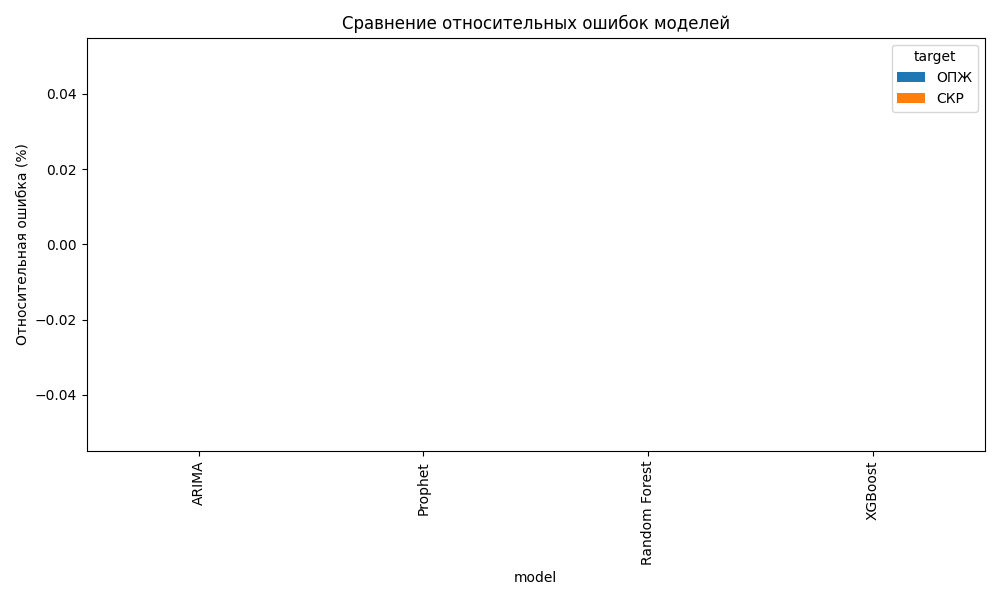
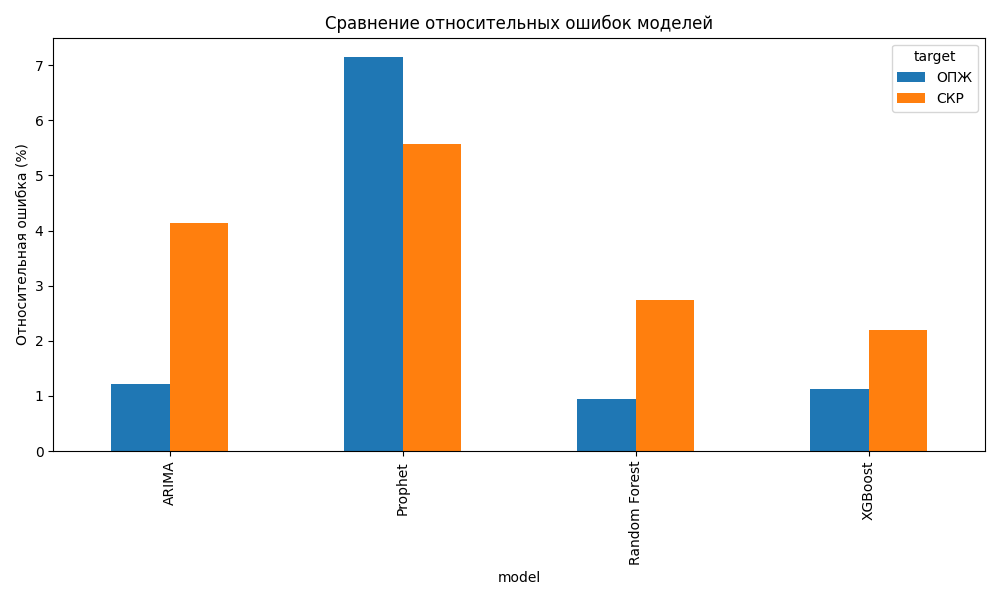
Auto update metrics [ci skip]

diff --git a/notebooks/Readme.md b/notebooks/Readme.md
@@ -1,42 +1,178 @@
 # Отчёт по моделям
 ## Модель: ARIMA — СКР
 ```
-
+====================================================================================================
+File: ./notebooks/ARIMA/predictions_afr.xlsx
+Names standardize
+RMSE: 0.0593
+MAE: 0.0445
+R²: 0.9544
+Средний СКР: 1.4329
+Среднее по предсказаниям: 1.4052
+Относительная ошибка: 4.14%
+====================================================================================================
+Отклонение таргета относительно среднего по всем годам: 1.62
+RMSE: 0.3348
+MAE: 0.2725
+R²: -0.4538
+Средний СКР: 1.4329
+Относительная ошибка: 23.37%
+====================================================================================================
+JSON: {"RMSE": 0.05926621495670294, "MAE": 0.04445411764705883, "R2": 0.9544499972734612, "mean": 1.4329270588235294, "relative_error": 4.136024551407526}
 ```
 
 ## Модель: ARIMA — ОПЖ
 ```
-
+====================================================================================================
+File: ./notebooks/ARIMA/predictions_ele.xlsx
+Names standardize
+RMSE: 0.8804
+MAE: 0.7063
+R²: 0.8856
+Средний ОПЖ: 72.4341
+Среднее по предсказаниям: 72.7107
+Относительная ошибка: 1.22%
+====================================================================================================
+Отклонение таргета относительно среднего по всем годам: 71.29
+RMSE: 2.8435
+MAE: 2.1326
+R²: -0.1932
+Средний ОПЖ: 72.4341
+Относительная ошибка: 3.93%
+====================================================================================================
+JSON: {"RMSE": 0.880369612552525, "MAE": 0.7062552941176471, "R2": 0.8856220471199727, "mean": 72.43411764705881, "relative_error": 1.2154073814251432}
 ```
 
 ## Модель: Prophet — СКР
 ```
-
+====================================================================================================
+File: ./notebooks/Prophet/predictions_afr.xlsx
+Names standardize
+RMSE: 0.0804
+MAE: 0.0626
+R²: 0.9166
+Средний СКР: 1.4430
+Среднее по предсказаниям: 1.3965
+Относительная ошибка: 5.57%
+====================================================================================================
+Отклонение таргета относительно среднего по всем годам: 1.62
+RMSE: 0.3299
+MAE: 0.2663
+R²: -0.4045
+Средний СКР: 1.4430
+Относительная ошибка: 22.86%
+====================================================================================================
+JSON: {"RMSE": 0.08039634474917264, "MAE": 0.06261784104002265, "R2": 0.9165793307910134, "mean": 1.4429705882352941, "relative_error": 5.57158582473221}
 ```
 
 ## Модель: Prophet — ОПЖ
 ```
-
+====================================================================================================
+File: ./notebooks/Prophet/predictions_ele.xlsx
+Names standardize
+RMSE: 5.1509
+MAE: 4.8807
+R²: -3.2340
+Средний ОПЖ: 72.1126
+Среднее по предсказаниям: 67.2320
+Относительная ошибка: 7.14%
+====================================================================================================
+Отклонение таргета относительно среднего по всем годам: 71.29
+RMSE: 2.6350
+MAE: 1.9764
+R²: -0.1080
+Средний ОПЖ: 72.1126
+Относительная ошибка: 3.65%
+====================================================================================================
+JSON: {"RMSE": 5.150934069517236, "MAE": 4.880674739778387, "R2": -3.233954240499953, "mean": 72.11264705882353, "relative_error": 7.142899726473126}
 ```
 
 ## Модель: Random Forest — СКР
 ```
-
+====================================================================================================
+File: ./notebooks/Random Forest/predictions_afr.xlsx
+Names standardize
+RMSE: 0.0393
+MAE: 0.0292
+R²: 0.9796
+Средний СКР: 1.4365
+Среднее по предсказаниям: 1.4142
+Относительная ошибка: 2.74%
+====================================================================================================
+Отклонение таргета относительно среднего по всем годам: 1.62
+RMSE: 0.3311
+MAE: 0.2689
+R²: -0.4436
+Средний СКР: 1.4365
+Относительная ошибка: 23.05%
+====================================================================================================
+JSON: {"RMSE": 0.03932620591272432, "MAE": 0.029168101179533782, "R2": 0.9796317627567215, "mean": 1.4364705882352944, "relative_error": 2.7376965623108656}
 ```
 
 ## Модель: Random Forest — ОПЖ
 ```
-
+====================================================================================================
+File: ./notebooks/Random Forest/predictions_ele.xlsx
+Names standardize
+RMSE: 0.6832
+MAE: 0.5865
+R²: 0.9311
+Средний ОПЖ: 72.4341
+Среднее по предсказаниям: 71.8629
+Относительная ошибка: 0.94%
+====================================================================================================
+Отклонение таргета относительно среднего по всем годам: 71.29
+RMSE: 2.8435
+MAE: 2.1326
+R²: -0.1932
+Средний ОПЖ: 72.4341
+Относительная ошибка: 3.93%
+====================================================================================================
+JSON: {"RMSE": 0.6831684827920756, "MAE": 0.5864823301127474, "R2": 0.931124006433729, "mean": 72.43411764705881, "relative_error": 0.9431584244884023}
 ```
 
 ## Модель: XGBoost — СКР
 ```
-
+====================================================================================================
+File: ./notebooks/XGBoost/predictions_afr.xlsx
+Names standardize
+RMSE: 0.0316
+MAE: 0.0240
+R²: 0.9869
+Средний СКР: 1.4365
+Среднее по предсказаниям: 1.4190
+Относительная ошибка: 2.20%
+====================================================================================================
+Отклонение таргета относительно среднего по всем годам: 1.62
+RMSE: 0.3311
+MAE: 0.2689
+R²: -0.4436
+Средний СКР: 1.4365
+Относительная ошибка: 23.05%
+====================================================================================================
+JSON: {"RMSE": 0.031577557563355854, "MAE": 0.023965081697351762, "R2": 0.9868675299764527, "mean": 1.4364705882352944, "relative_error": 2.1982738680468854}
 ```
 
 ## Модель: XGBoost — ОПЖ
 ```
-
+====================================================================================================
+File: ./notebooks/XGBoost/predictions_ele.xlsx
+Names standardize
+RMSE: 0.8215
+MAE: 0.7429
+R²: 0.9004
+Средний ОПЖ: 72.4341
+Среднее по предсказаниям: 71.6956
+Относительная ошибка: 1.13%
+====================================================================================================
+Отклонение таргета относительно среднего по всем годам: 71.29
+RMSE: 2.8435
+MAE: 2.1326
+R²: -0.1932
+Средний ОПЖ: 72.4341
+Относительная ошибка: 3.93%
+====================================================================================================
+JSON: {"RMSE": 0.8214864661036654, "MAE": 0.7429433773265169, "R2": 0.9004106133538248, "mean": 72.43411764705881, "relative_error": 1.1341153765500749}
 ```
 
 ## Диаграмма относительных ошибок
